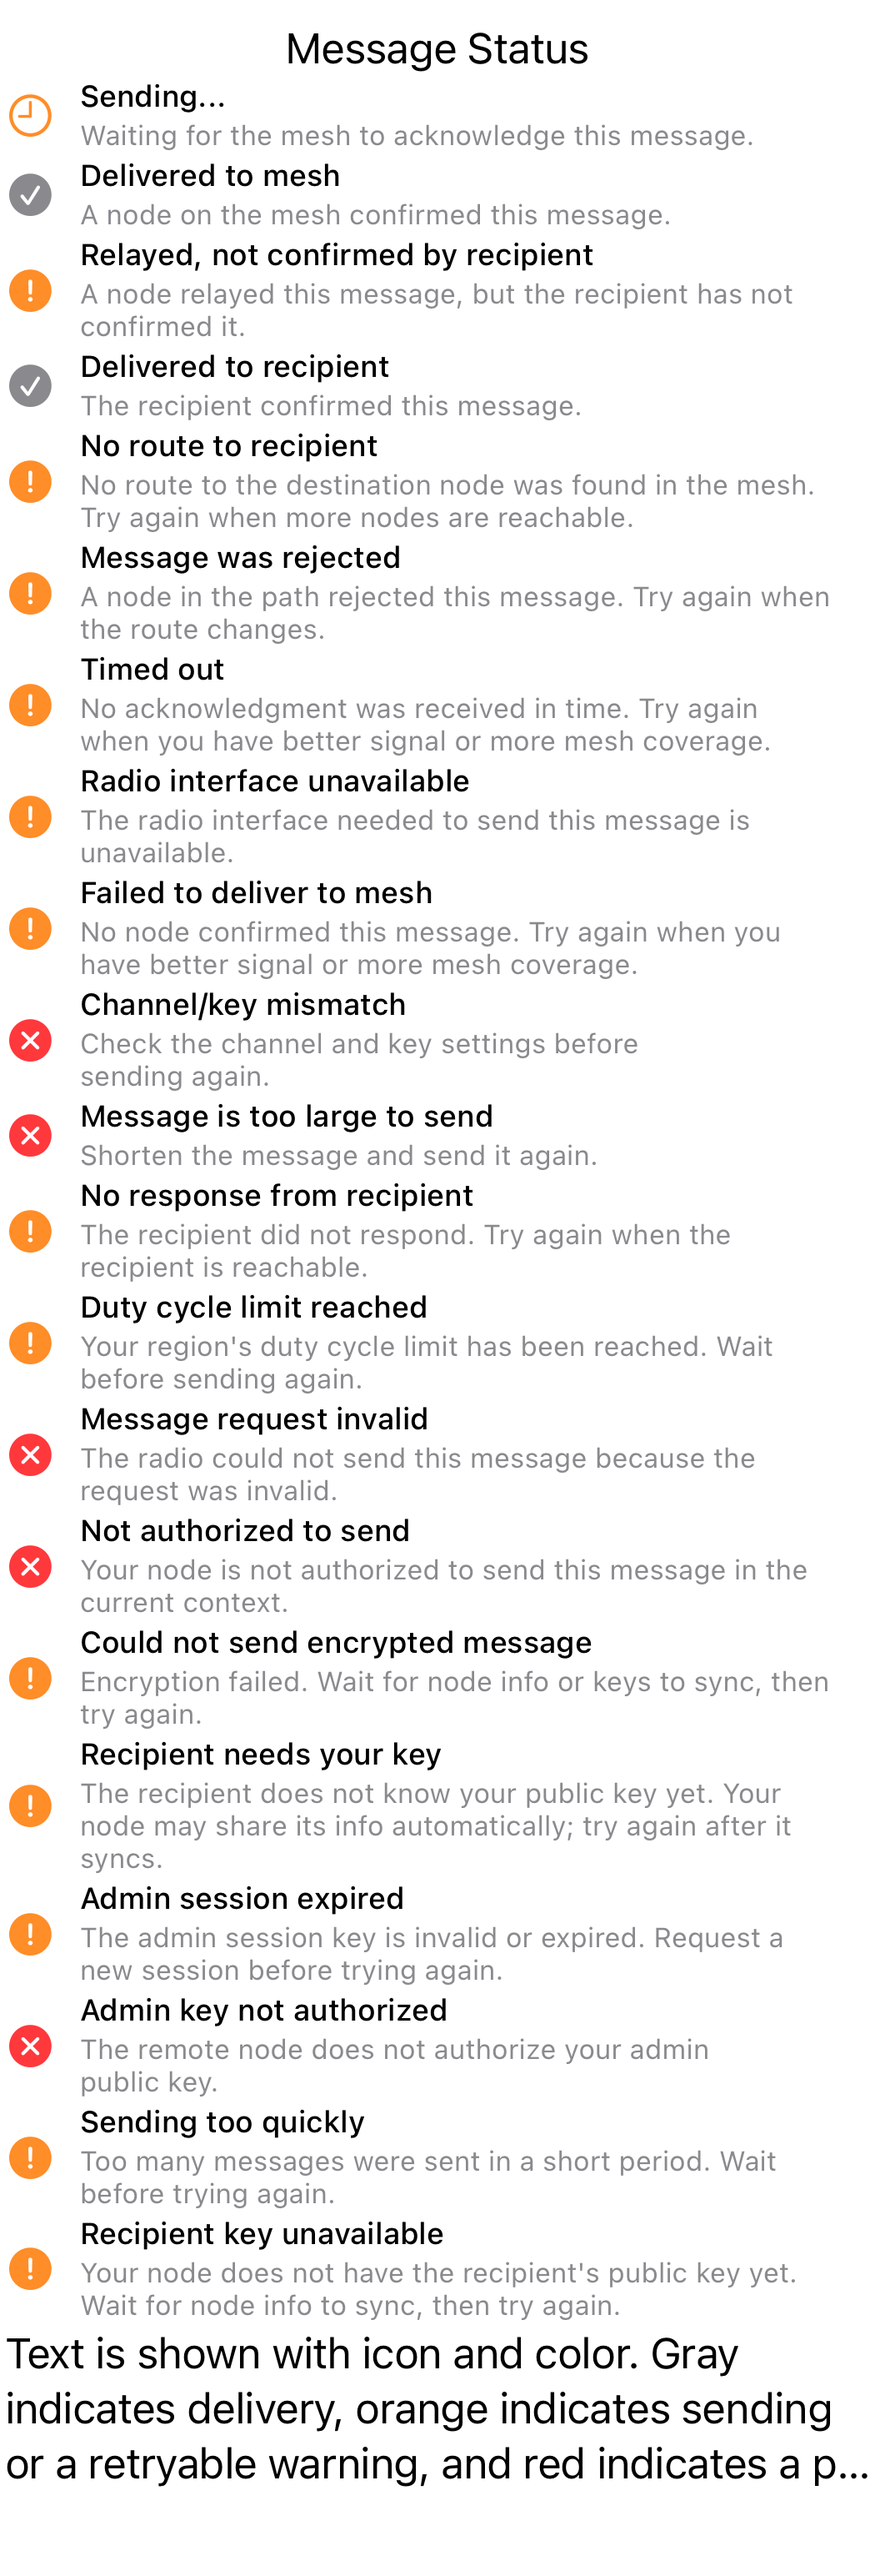
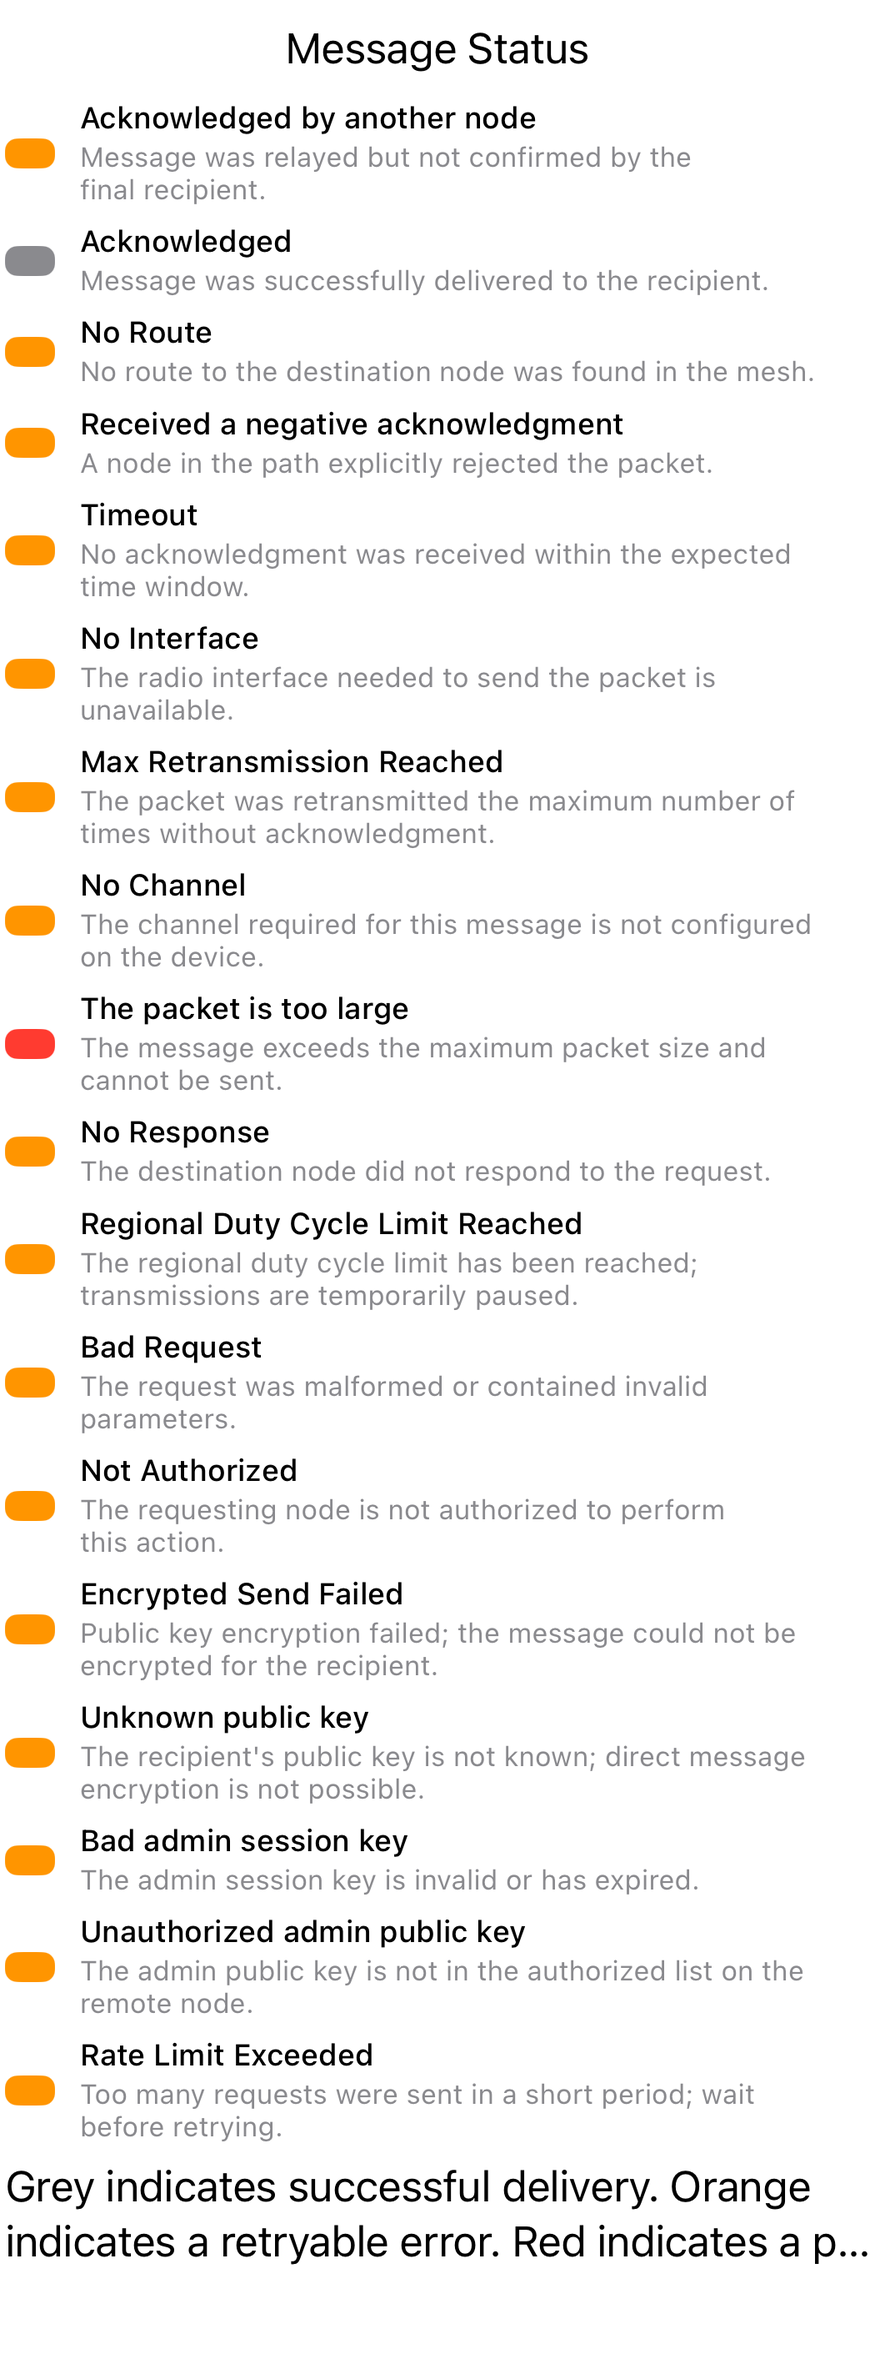
Remove committed status validation screenshots

diff --git a/MeshtasticTests/SwiftUIViewSnapshotTests.swift b/MeshtasticTests/SwiftUIViewSnapshotTests.swift
@@ -194,55 +194,6 @@ struct AckErrorsSnapshotTests {
 	}
 }
 
-// MARK: - MessageDeliveryStatus Snapshot Tests
-
-private struct MessageDeliveryStatusValidationGallery: View {
-	private let statuses: [(name: String, status: MessageDeliveryStatus)] = [
-		("Sending", .sending),
-		("Channel implicit ACK", .deliveredToMesh),
-		("DM implicit ACK", .relayedNotConfirmed),
-		("Explicit ACK", .deliveredToRecipient),
-		("No ACK", .failed(.maxRetransmit)),
-		("Channel/key mismatch", .failed(.noChannel)),
-		("Encrypted send failed", .failed(.pkiFailed)),
-		("Recipient key unavailable", .failed(.pkiSendFailPublicKey)),
-		("Recipient missing sender key", .failed(.pkiUnknownPubkey)),
-		("Too large", .failed(.tooLarge))
-	]
-
-	var body: some View {
-		VStack(alignment: .leading, spacing: 10) {
-			ForEach(Array(statuses.enumerated()), id: \.offset) { _, item in
-				VStack(alignment: .leading, spacing: 3) {
-					Text(item.name)
-						.font(.caption)
-						.foregroundStyle(.secondary)
-					MessageDeliveryStatusLabel(status: item.status)
-					Text(item.status.detail)
-						.font(.caption2)
-						.foregroundStyle(.secondary)
-						.fixedSize(horizontal: false, vertical: true)
-				}
-				.frame(maxWidth: .infinity, alignment: .leading)
-			}
-		}
-		.padding(12)
-	}
-}
-
-@Suite("MessageDeliveryStatus Snapshots")
-struct MessageDeliveryStatusSnapshotTests {
-
-	@Test("Message delivery status states")
-	func messageDeliveryStatusStates() async {
-		await assertViewSnapshot(
-			of: MessageDeliveryStatusValidationGallery(),
-			width: 350,
-			named: "messageDeliveryStatusStates"
-		)
-	}
-}
-
 // MARK: - LockLegend Snapshot Tests
 
 @Suite("LockLegend Snapshots")
